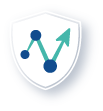
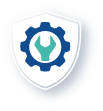
renombro iconos
modifico iconos que estaban mal en la imagen

Changed region(s): [[0.1748, 0.1892, 0.699, 0.6757]]

diff --git a/src/launcherv1v1/launcher.java b/src/launcherv1v1/launcher.java
@@ -4,6 +4,11 @@
  */
 package launcherv1v1;
 
+import java.awt.Image;
+import javax.swing.Icon;
+import javax.swing.ImageIcon;
+import javax.swing.JLabel;
+
 /**
  *
  * @author mgarr
@@ -15,6 +20,23 @@ public class launcher extends javax.swing.JFrame {
      */
     public launcher() {
         initComponents();
+        this.setLocationRelativeTo(this);
+
+        SetImageLabel(icon0, "src/escudos/LauncherButton0.png");
+        SetImageLabel(icon0, "src/escudos/LauncherButton1.png");
+        SetImageLabel(icon0, "src/escudos/LauncherButton2.png");
+        SetImageLabel(icon0, "src/escudos/LauncherButton3.png");
+        SetImageLabel(icon0, "src/escudos/LauncherButton4.png");
+        SetImageLabel(icon0, "src/escudos/LauncherButton5.png");
+        SetImageLabel(icon0, "src/escudos/LauncherButton6.png");
+        SetImageLabel(icon0, "src/escudos/LauncherButton7.png");
+        SetImageLabel(icon0, "src/escudos/LauncherButton8.png");
+        SetImageLabel(icon0, "src/escudos/LauncherButton9.png");
+        SetImageLabel(icon0, "src/escudos/LauncherButton10.png");
+        SetImageLabel(icon0, "src/escudos/LauncherButton11.png");
+         SetImageLabel(icon0,"src/escudos/LauncherButton12.png");
+          SetImageLabel(icon0,"src/escudos/LauncherButton13.png");
+
     }
 
     /**
@@ -27,12 +49,7 @@ public class launcher extends javax.swing.JFrame {
     private void initComponents() {
 
         jPanel1 = new javax.swing.JPanel();
-        miniatura0 = new javax.swing.JLabel();
-        miniatura1 = new javax.swing.JLabel();
-        miniatura2 = new javax.swing.JLabel();
-        miniatura3 = new javax.swing.JLabel();
-        miniatura4 = new javax.swing.JLabel();
-        miniatura5 = new javax.swing.JLabel();
+        jPanel3 = new javax.swing.JPanel();
         icon0 = new javax.swing.JLabel();
         icon1 = new javax.swing.JLabel();
         icon2 = new javax.swing.JLabel();
@@ -47,8 +64,14 @@ public class launcher extends javax.swing.JFrame {
         icon11 = new javax.swing.JLabel();
         icon12 = new javax.swing.JLabel();
         icon13 = new javax.swing.JLabel();
-        contentbackground = new javax.swing.JLabel();
         jPanel2 = new javax.swing.JPanel();
+        miniatura0 = new javax.swing.JLabel();
+        miniatura1 = new javax.swing.JLabel();
+        miniatura2 = new javax.swing.JLabel();
+        miniatura3 = new javax.swing.JLabel();
+        miniatura5 = new javax.swing.JLabel();
+        miniatura4 = new javax.swing.JLabel();
+        contentbackground = new javax.swing.JLabel();
 
         setDefaultCloseOperation(javax.swing.WindowConstants.EXIT_ON_CLOSE);
         setBounds(new java.awt.Rectangle(0, 0, 0, 0));
@@ -65,110 +88,117 @@ public class launcher extends javax.swing.JFrame {
         jPanel1.setPreferredSize(new java.awt.Dimension(1920, 1080));
         jPanel1.setLayout(new org.netbeans.lib.awtextra.AbsoluteLayout());
 
-        miniatura0.setIcon(new javax.swing.ImageIcon(getClass().getResource("/miniaturas/HomeButton0.png"))); // NOI18N
-        jPanel1.add(miniatura0, new org.netbeans.lib.awtextra.AbsoluteConstraints(400, 240, -1, -1));
-
-        miniatura1.setIcon(new javax.swing.ImageIcon(getClass().getResource("/miniaturas/HomeButton1.png"))); // NOI18N
-        jPanel1.add(miniatura1, new org.netbeans.lib.awtextra.AbsoluteConstraints(930, 240, 380, 290));
-
-        miniatura2.setIcon(new javax.swing.ImageIcon(getClass().getResource("/miniaturas/HomeButton2.png"))); // NOI18N
-        jPanel1.add(miniatura2, new org.netbeans.lib.awtextra.AbsoluteConstraints(1470, 240, 380, -1));
-
-        miniatura3.setIcon(new javax.swing.ImageIcon(getClass().getResource("/miniaturas/HomeButton3.png"))); // NOI18N
-        jPanel1.add(miniatura3, new org.netbeans.lib.awtextra.AbsoluteConstraints(400, 700, -1, -1));
-
-        miniatura4.setIcon(new javax.swing.ImageIcon(getClass().getResource("/miniaturas/HomeButton4.png"))); // NOI18N
-        jPanel1.add(miniatura4, new org.netbeans.lib.awtextra.AbsoluteConstraints(940, 700, 380, 290));
-
-        miniatura5.setIcon(new javax.swing.ImageIcon(getClass().getResource("/miniaturas/HomeButton5.png"))); // NOI18N
-        jPanel1.add(miniatura5, new org.netbeans.lib.awtextra.AbsoluteConstraints(1480, 690, 400, 310));
+        jPanel3.setOpaque(false);
 
         icon0.setIcon(new javax.swing.ImageIcon(getClass().getResource("/escudos/LauncherButton8.png"))); // NOI18N
-        icon0.setMaximumSize(new java.awt.Dimension(102, 111));
+        icon0.setMaximumSize(new java.awt.Dimension(200, 111));
         icon0.setMinimumSize(new java.awt.Dimension(102, 111));
         icon0.setPreferredSize(new java.awt.Dimension(102, 111));
-        jPanel1.add(icon0, new org.netbeans.lib.awtextra.AbsoluteConstraints(400, 80, -1, -1));
+        jPanel3.add(icon0);
 
         icon1.setIcon(new javax.swing.ImageIcon(getClass().getResource("/escudos/LauncherButton0.png"))); // NOI18N
         icon1.setMaximumSize(new java.awt.Dimension(102, 111));
         icon1.setMinimumSize(new java.awt.Dimension(102, 111));
         icon1.setPreferredSize(new java.awt.Dimension(102, 111));
-        jPanel1.add(icon1, new org.netbeans.lib.awtextra.AbsoluteConstraints(540, 80, -1, -1));
+        jPanel3.add(icon1);
 
         icon2.setIcon(new javax.swing.ImageIcon(getClass().getResource("/escudos/LauncherButton1.png"))); // NOI18N
         icon2.setMaximumSize(new java.awt.Dimension(102, 111));
         icon2.setMinimumSize(new java.awt.Dimension(102, 111));
         icon2.setPreferredSize(new java.awt.Dimension(102, 111));
-        jPanel1.add(icon2, new org.netbeans.lib.awtextra.AbsoluteConstraints(670, 85, -1, -1));
+        jPanel3.add(icon2);
 
         icon3.setIcon(new javax.swing.ImageIcon(getClass().getResource("/escudos/LauncherButton2.png"))); // NOI18N
         icon3.setMaximumSize(new java.awt.Dimension(102, 111));
         icon3.setMinimumSize(new java.awt.Dimension(102, 111));
         icon3.setPreferredSize(new java.awt.Dimension(102, 111));
-        jPanel1.add(icon3, new org.netbeans.lib.awtextra.AbsoluteConstraints(780, 85, -1, -1));
+        jPanel3.add(icon3);
 
         icon4.setIcon(new javax.swing.ImageIcon(getClass().getResource("/escudos/LauncherButton3.png"))); // NOI18N
         icon4.setMaximumSize(new java.awt.Dimension(102, 111));
         icon4.setMinimumSize(new java.awt.Dimension(102, 111));
         icon4.setPreferredSize(new java.awt.Dimension(102, 111));
-        jPanel1.add(icon4, new org.netbeans.lib.awtextra.AbsoluteConstraints(890, 85, -1, -1));
+        jPanel3.add(icon4);
 
         icon5.setIcon(new javax.swing.ImageIcon(getClass().getResource("/escudos/LauncherButton4.png"))); // NOI18N
-        jPanel1.add(icon5, new org.netbeans.lib.awtextra.AbsoluteConstraints(1000, 85, -1, -1));
+        jPanel3.add(icon5);
 
         icon6.setIcon(new javax.swing.ImageIcon(getClass().getResource("/escudos/LauncherButton5.png"))); // NOI18N
         icon6.setMaximumSize(new java.awt.Dimension(102, 111));
         icon6.setMinimumSize(new java.awt.Dimension(102, 111));
         icon6.setPreferredSize(new java.awt.Dimension(102, 111));
-        jPanel1.add(icon6, new org.netbeans.lib.awtextra.AbsoluteConstraints(1110, 85, -1, -1));
+        jPanel3.add(icon6);
 
         icon7.setIcon(new javax.swing.ImageIcon(getClass().getResource("/escudos/LauncherButton6.png"))); // NOI18N
         icon7.setMaximumSize(new java.awt.Dimension(102, 111));
         icon7.setMinimumSize(new java.awt.Dimension(102, 111));
         icon7.setPreferredSize(new java.awt.Dimension(102, 111));
-        jPanel1.add(icon7, new org.netbeans.lib.awtextra.AbsoluteConstraints(1210, 85, -1, -1));
+        jPanel3.add(icon7);
 
         icon8.setIcon(new javax.swing.ImageIcon(getClass().getResource("/escudos/LauncherButton7.png"))); // NOI18N
         icon8.setMaximumSize(new java.awt.Dimension(102, 111));
         icon8.setMinimumSize(new java.awt.Dimension(102, 111));
         icon8.setPreferredSize(new java.awt.Dimension(102, 111));
-        jPanel1.add(icon8, new org.netbeans.lib.awtextra.AbsoluteConstraints(1310, 85, -1, -1));
+        jPanel3.add(icon8);
 
         icon9.setIcon(new javax.swing.ImageIcon(getClass().getResource("/escudos/LauncherButton13.png"))); // NOI18N
         icon9.setMaximumSize(new java.awt.Dimension(102, 111));
         icon9.setMinimumSize(new java.awt.Dimension(102, 111));
         icon9.setPreferredSize(new java.awt.Dimension(102, 111));
-        jPanel1.add(icon9, new org.netbeans.lib.awtextra.AbsoluteConstraints(1410, 85, -1, -1));
+        jPanel3.add(icon9);
 
         icon10.setIcon(new javax.swing.ImageIcon(getClass().getResource("/escudos/LauncherButton9.png"))); // NOI18N
         icon10.setMaximumSize(new java.awt.Dimension(102, 111));
         icon10.setMinimumSize(new java.awt.Dimension(102, 111));
         icon10.setPreferredSize(new java.awt.Dimension(102, 111));
-        jPanel1.add(icon10, new org.netbeans.lib.awtextra.AbsoluteConstraints(1520, 85, -1, -1));
+        jPanel3.add(icon10);
 
         icon11.setIcon(new javax.swing.ImageIcon(getClass().getResource("/escudos/LauncherButton10.png"))); // NOI18N
-        jPanel1.add(icon11, new org.netbeans.lib.awtextra.AbsoluteConstraints(1620, 85, -1, -1));
+        jPanel3.add(icon11);
 
         icon12.setIcon(new javax.swing.ImageIcon(getClass().getResource("/escudos/LauncherButton11.png"))); // NOI18N
         icon12.setMaximumSize(new java.awt.Dimension(102, 111));
         icon12.setMinimumSize(new java.awt.Dimension(102, 111));
         icon12.setPreferredSize(new java.awt.Dimension(102, 111));
-        jPanel1.add(icon12, new org.netbeans.lib.awtextra.AbsoluteConstraints(1720, 85, -1, -1));
+        jPanel3.add(icon12);
 
         icon13.setIcon(new javax.swing.ImageIcon(getClass().getResource("/escudos/LauncherButton12.png"))); // NOI18N
         icon13.setAlignmentY(0.0F);
         icon13.setHorizontalTextPosition(javax.swing.SwingConstants.CENTER);
-        jPanel1.add(icon13, new org.netbeans.lib.awtextra.AbsoluteConstraints(1820, 85, -1, -1));
+        jPanel3.add(icon13);
+
+        jPanel1.add(jPanel3, new org.netbeans.lib.awtextra.AbsoluteConstraints(370, 70, 1540, 130));
+
+        jPanel2.setMaximumSize(new java.awt.Dimension(1552, 870));
+        jPanel2.setMinimumSize(new java.awt.Dimension(1552, 870));
+        jPanel2.setOpaque(false);
+        jPanel2.setPreferredSize(new java.awt.Dimension(1552, 870));
+        jPanel2.setLayout(new org.netbeans.lib.awtextra.AbsoluteLayout());
+
+        miniatura0.setIcon(new javax.swing.ImageIcon(getClass().getResource("/miniaturas/HomeButton0.png"))); // NOI18N
+        jPanel2.add(miniatura0, new org.netbeans.lib.awtextra.AbsoluteConstraints(60, 60, -1, -1));
+
+        miniatura1.setIcon(new javax.swing.ImageIcon(getClass().getResource("/miniaturas/HomeButton1.png"))); // NOI18N
+        jPanel2.add(miniatura1, new org.netbeans.lib.awtextra.AbsoluteConstraints(580, 70, 380, 290));
+
+        miniatura2.setIcon(new javax.swing.ImageIcon(getClass().getResource("/miniaturas/HomeButton2.png"))); // NOI18N
+        jPanel2.add(miniatura2, new org.netbeans.lib.awtextra.AbsoluteConstraints(1130, 80, 380, -1));
+
+        miniatura3.setIcon(new javax.swing.ImageIcon(getClass().getResource("/miniaturas/HomeButton3.png"))); // NOI18N
+        jPanel2.add(miniatura3, new org.netbeans.lib.awtextra.AbsoluteConstraints(60, 530, -1, -1));
+
+        miniatura5.setIcon(new javax.swing.ImageIcon(getClass().getResource("/miniaturas/HomeButton5.png"))); // NOI18N
+        jPanel2.add(miniatura5, new org.netbeans.lib.awtextra.AbsoluteConstraints(1110, 520, 400, 310));
+
+        miniatura4.setIcon(new javax.swing.ImageIcon(getClass().getResource("/miniaturas/HomeButton4.png"))); // NOI18N
+        jPanel2.add(miniatura4, new org.netbeans.lib.awtextra.AbsoluteConstraints(570, 530, 380, 290));
+
+        jPanel1.add(jPanel2, new org.netbeans.lib.awtextra.AbsoluteConstraints(368, 203, -1, -1));
 
         contentbackground.setHorizontalAlignment(javax.swing.SwingConstants.CENTER);
         contentbackground.setIcon(new javax.swing.ImageIcon(getClass().getResource("/launcherv1v1/FondoBase.png"))); // NOI18N
         contentbackground.setFocusTraversalPolicyProvider(true);
         jPanel1.add(contentbackground, new org.netbeans.lib.awtextra.AbsoluteConstraints(0, 0, -1, -1));
-
-        jPanel2.setMaximumSize(new java.awt.Dimension(1552, 870));
-        jPanel2.setMinimumSize(new java.awt.Dimension(1552, 870));
-        jPanel2.setPreferredSize(new java.awt.Dimension(1552, 870));
-        jPanel1.add(jPanel2, new org.netbeans.lib.awtextra.AbsoluteConstraints(368, 203, -1, -1));
 
         getContentPane().add(jPanel1, new org.netbeans.lib.awtextra.AbsoluteConstraints(0, 0, -1, -1));
 
@@ -210,6 +240,14 @@ public class launcher extends javax.swing.JFrame {
         });
     }
 
+    private void SetImageLabel(JLabel labelName, String root) {
+        ImageIcon image = new ImageIcon(root);
+        Icon icon = new ImageIcon(image.getImage().getScaledInstance(labelName.getWidth(), labelName.getHeight(), Image.SCALE_DEFAULT));
+        labelName.setIcon(icon);
+        this.repaint();
+
+    }
+
     // Variables declaration - do not modify//GEN-BEGIN:variables
     private javax.swing.JLabel contentbackground;
     private javax.swing.JLabel icon0;
@@ -228,6 +266,7 @@ public class launcher extends javax.swing.JFrame {
     private javax.swing.JLabel icon9;
     private javax.swing.JPanel jPanel1;
     private javax.swing.JPanel jPanel2;
+    private javax.swing.JPanel jPanel3;
     private javax.swing.JLabel miniatura0;
     private javax.swing.JLabel miniatura1;
     private javax.swing.JLabel miniatura2;

diff --git a/src/launcherv1v1/laucherclass.java b/src/launcherv1v1/laucherclass.java
@@ -1,0 +1,17 @@
+/*
+ * Click nbfs://nbhost/SystemFileSystem/Templates/Licenses/license-default.txt to change this license
+ * Click nbfs://nbhost/SystemFileSystem/Templates/Classes/Class.java to edit this template
+ */
+package launcherv1v1;
+
+/**
+ *
+ * @author mgarr
+ */
+public class laucherclass {
+    public static void main(String[] args) {
+        launcher princ = new launcher();
+        princ.setVisible(true);
+    }
+    
+}
